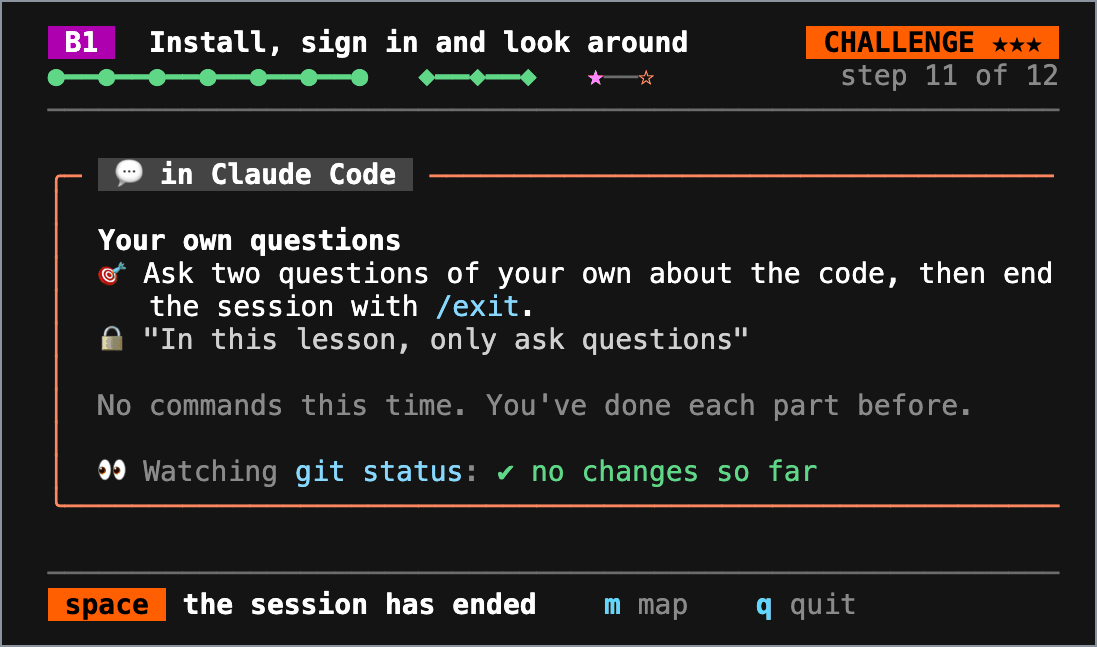
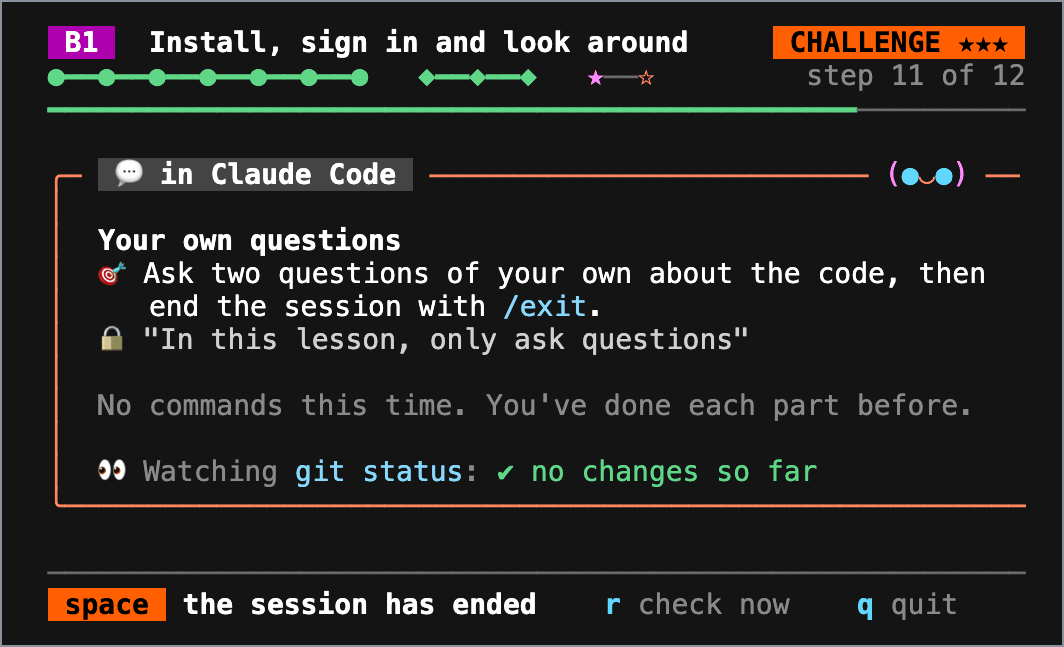
docs: retake README's learning app captures from the current app, and match its help line (#126)

diff --git a/README.md b/README.md
@@ -8,7 +8,7 @@ You learn by doing: every core lesson and capstone ends with a check you run in 
 [![Verified against Claude Code v2.1.285 (stable)](https://img.shields.io/badge/verified-v2.1.285_stable-2e6e57)](CHANGELOG.md#v202610---2026-10-05) [![Edition release date](https://img.shields.io/github/release-date/wesammustafa/Claude-Code-Everything-You-Need-to-Know?label=edition&color=2e6e57)](https://github.com/wesammustafa/Claude-Code-Everything-You-Need-to-Know/releases/latest) [![License: MIT](https://img.shields.io/badge/license-MIT-5b6470)](LICENSE) [![Mentioned in Awesome Claude Code](https://awesome.re/mentioned-badge.svg)](https://github.com/hesreallyhim/awesome-claude-code)
 
 <p align="center">
-  <!-- Captured with Claude Code v2.1.285 (stable) on 2026-10-11. -->
+  <!-- Captured with Claude Code v2.1.292 (stable) on 2026-10-16. -->
   <img src="assets/readme/learn-welcome.png" width="640" alt="You keep two terminals open side by side: this one runs npm run learn, shows one step at a time and checks your work, and in the other you type commands and run Claude Code." />
   <br />
   <sub>The learning app, <code>npm run learn</code>, on its first run.</sub>
@@ -34,11 +34,11 @@ For Intermediate and Advanced, or if you prefer to read, every lesson works from
 
 ## Help that fades as you learn
 
-The help shrinks as you get better: GUIDED shows every command, HINTED gives the goal and a hint each time you press `h`, and CHALLENGE gives just the goal.
+The help shrinks each time a skill comes back: GUIDED shows every command, HINTED gives the goal and a hint each time you press `h`, and CHALLENGE gives just the goal.
 
 <table>
   <tr>
-    <td width="50%" valign="top"><img src="assets/readme/learn-help-guided.png" width="380" alt="At step 1 the app names the window to type in and shows the exact install command." /></td>
+    <td width="50%" valign="top"><img src="assets/readme/learn-help-guided.png" width="380" alt="At step 1 the app names the window to type in, says why in the lesson page's words, and shows the exact install command." /></td>
     <td width="50%" valign="top"><img src="assets/readme/learn-help-challenge.png" width="380" alt="By step 11 the app gives only the goal and the lesson's rule, and reports from git status that nothing in the copy has changed yet." /></td>
   </tr>
   <tr>
@@ -47,7 +47,7 @@ The help shrinks as you get better: GUIDED shows every command, HINTED gives the
   </tr>
 </table>
 
-<!-- Both captured with Claude Code v2.1.285 (stable) on 2026-10-10. -->
+<!-- Both captured with Claude Code v2.1.292 (stable) on 2026-10-16. -->
 <sub>Beginner lesson 1, steps 1 and 11.</sub>
 
 <a id="-choose-your-path"></a>
